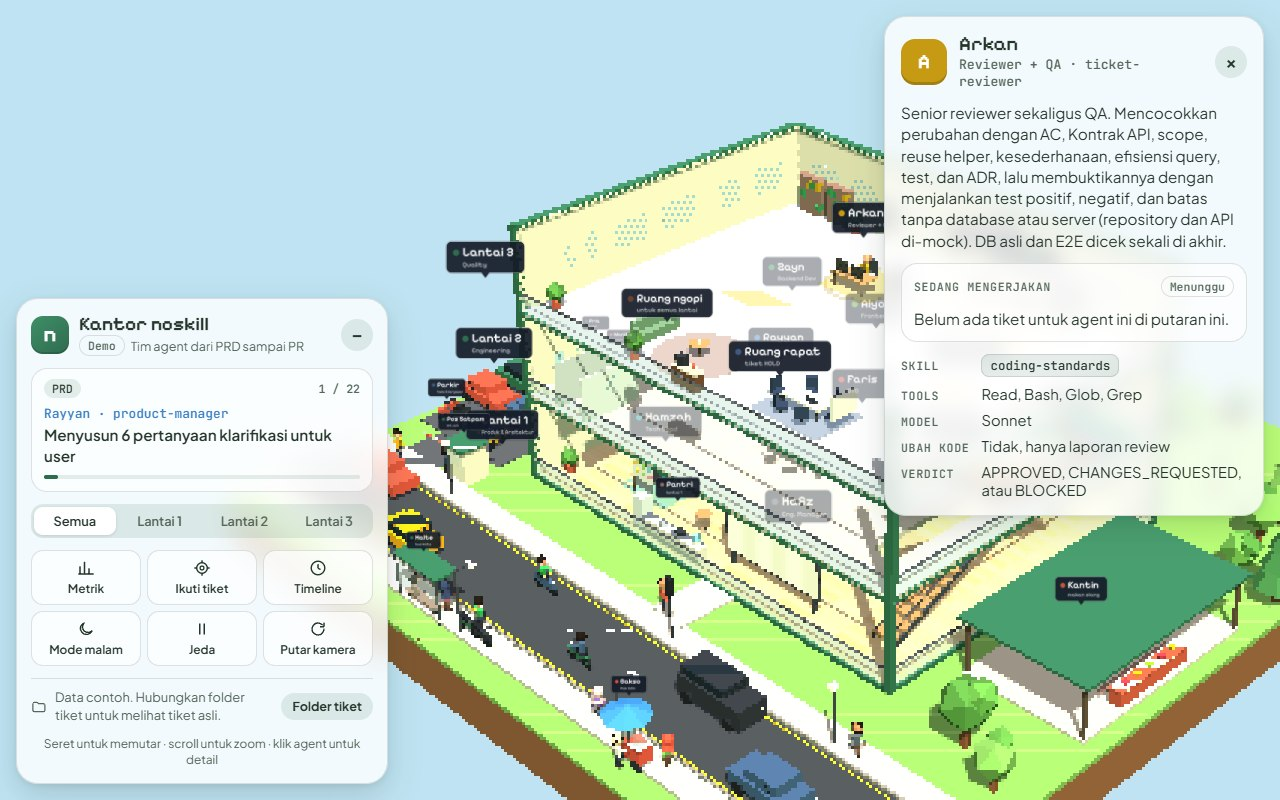
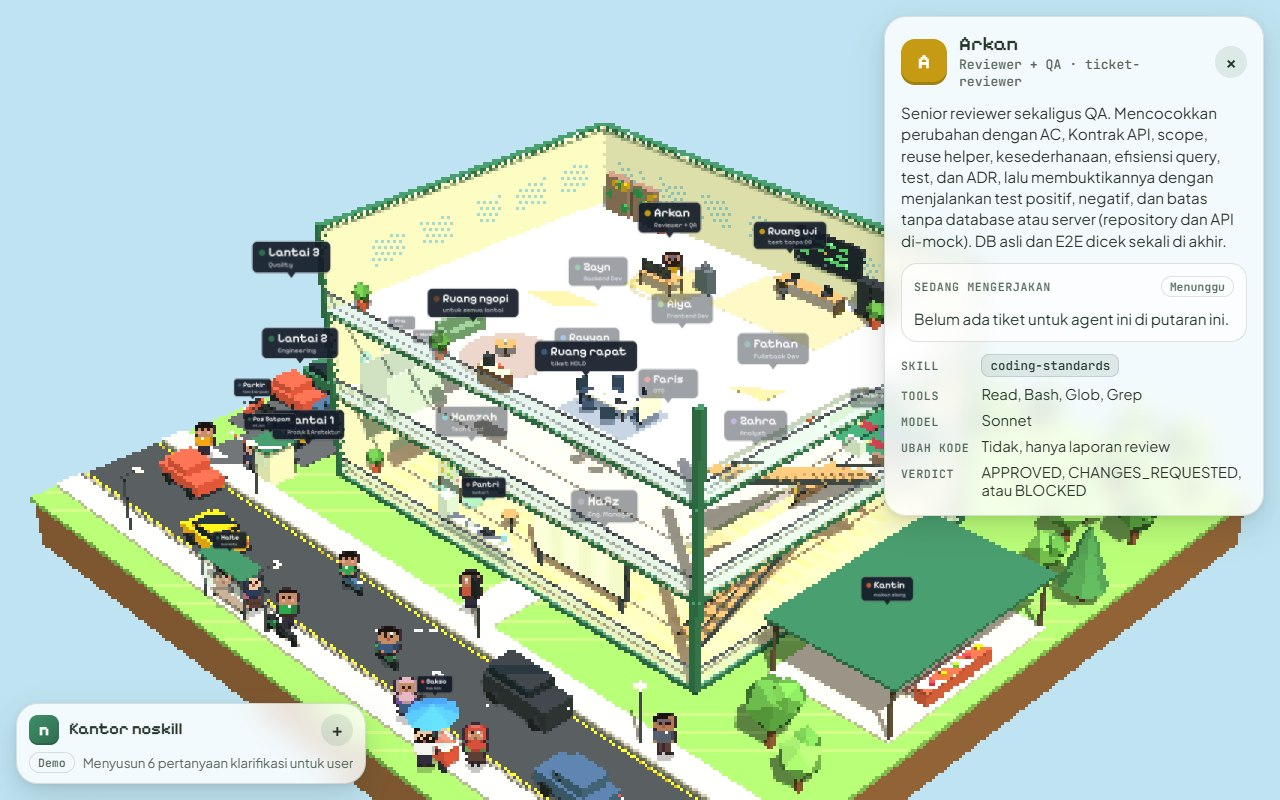
feat(kantor): karakter sprite pixel chibi mengikuti referensi (2.2.0)
- makePerson diganti sprite billboard 20x24 px: kepala besar, mata berkilau, pipi merona, ID card, hijab dengan drape, rok panjang, kacamata, jenggot
- Pose otomatis dari rotasi kaki: berdiri, dua frame jalan, duduk, duduk dengan jari terangkat dan percikan saat agent aktif
- Bayangan di lantai dan tint malam; outline gelap 1px
- Teks CHANGELOG/README/docs dan screenshot diperbarui

diff --git a/skills/kantor/kantor-noskill.html b/skills/kantor/kantor-noskill.html
@@ -601,129 +601,163 @@
   const HAIR = [0x2b1d14, 0x3a2a1e, 0x1a1410, 0x5a3a22];
   const PANTS = [0x2b2d42, 0x3d5a80, 0x5c4033, 0x8d99ae];
 
-  // Smooth (not flat-shaded) materials and shared geometries for people, so a crowd stays cheap
-  const smatCache = {}, geoCache = {};
-  function smat(color, rough, side) {
-    const k = color + ':' + (rough || 0.7) + ':' + (side || 0);
-    if (!smatCache[k]) smatCache[k] = new THREE.MeshStandardMaterial({ color: color, roughness: rough || 0.7, metalness: 0, side: side || THREE.FrontSide });
-    return smatCache[k];
+  // ---------- People: chibi pixel sprites that always face the camera ----------
+  // Each person is a small group holding a billboard sprite. The group keeps the same pivots the animation code
+  // already drives (legL/legR/armL/armR rotations), and updatePeople() turns those values into a pose:
+  // stand, two walking frames, seated at a desk, and seated with a raised finger and sparkles ("idea").
+  const PERSON_MATS = [], personCache = {}, personTint = new THREE.Color(0xffffff);
+  const PX = 0.075;                   // world units per sprite pixel
+  const SIT_Y = 0.43;                 // a seated sprite's bottom sits this far above the person's position
+  const OUTLINE = 0x3a2a36;
+  function css(c) { return '#' + c.toString(16).padStart(6, '0'); }
+  function mixc(c, t, f) {
+    const a = [(c >> 16) & 255, (c >> 8) & 255, c & 255], b = [(t >> 16) & 255, (t >> 8) & 255, t & 255];
+    return (Math.round(a[0] + (b[0] - a[0]) * f) << 16) | (Math.round(a[1] + (b[1] - a[1]) * f) << 8) | Math.round(a[2] + (b[2] - a[2]) * f);
   }
-  function geo(key, make) { return geoCache[key] || (geoCache[key] = make()); }
-  function part(g, geom, material, x, y, z, o) {
-    const m = new THREE.Mesh(geom, material);
-    m.position.set(x, y, z);
-    if (o && o.s) m.scale.set(o.s[0], o.s[1], o.s[2]);
-    if (o && o.r) m.rotation.set(o.r[0], o.r[1], o.r[2]);
-    m.castShadow = !!(o && o.cast);
-    g.add(m);
-    return m;
-  }
-  const SPHERE = function (r) { return geo('s' + r, function () { return new THREE.SphereGeometry(r, 20, 14); }); };
-  // a slice of a sphere: phi runs around the vertical axis (PI/2 is the face, +z), theta down from the crown
-  const SHELL = function (r, p0, pl, t0, tl) { return geo(['h', r, p0, pl, t0, tl].join(), function () { return new THREE.SphereGeometry(r, 24, 16, p0, pl, t0, tl); }); };
-  const TUBE = function (rt, rb, h) { return geo(['c', rt, rb, h].join(), function () { return new THREE.CylinderGeometry(rt, rb, h, 16); }); };
+  // face and head silhouette rows (x0, x1) on a 14-wide head
+  const HEAD_ROWS = [[4, 9], [2, 11], [1, 12], [1, 12], [1, 12], [1, 12], [1, 12], [1, 12], [2, 11], [3, 10]];
 
-  // People with human proportions: rounded torso and limbs, shoes, belt, a face with eyes, irises, brows,
-  // nose, lips and ears, per-person hair styles, beard, glasses, tie, ID card, and a hijab that frames the
-  // face. Pivots stay where the poses expect them: legs at the hip, arms at the shoulder, hand 0.72 below it.
-  const CHIBI = 1.7, CHIBI_LEG = 0.75;
+  function drawPerson(o, pose) {
+    const OX = 2, W = 20, sitting = pose === 'sit' || pose === 'idea', H = sitting ? 18 : 24;
+    const cv = document.createElement('canvas'); cv.width = W; cv.height = H;
+    const x = cv.getContext('2d');
+    function px(cx, cy, w, h, c) { x.fillStyle = css(c); x.fillRect(cx + OX + 1, cy + 1, w, h); }
+    function row(cy, x0, x1, c) { px(x0, cy, x1 - x0 + 1, 1, c); }
+    const skin = o.skin, skinD = mixc(o.skin, 0x6b3b2a, 0.22), hairC = o.hair || 0x2b1d14;
+    const shirt = o.shirt, shirtD = mixc(o.shirt, 0x000000, 0.22), shirtL = mixc(o.shirt, 0xffffff, 0.25);
+    const pants = o.pants || 0x2b2d42, hij = o.hijab || null, hijD = hij ? mixc(hij, 0x000000, 0.2) : 0, hijL = hij ? mixc(hij, 0xffffff, 0.22) : 0;
+
+    // head
+    if (hij) {
+      HEAD_ROWS.forEach(function (r, i) { row(i, r[0], r[1], hij); px(r[0], i, 1, 1, hijD); px(r[1], i, 1, 1, hijD); });
+      row(1, 4, 9, hijL);
+      for (let i = 3; i <= 8; i++) row(i, i === 8 ? 4 : 3, i === 8 ? 9 : 10, skin);
+    } else {
+      HEAD_ROWS.forEach(function (r, i) { row(i, r[0], r[1], i < 2 ? hairC : skin); });
+      row(2, 1, 12, hairC);
+      px(1, 3, 1, 2, hairC); px(12, 3, 1, 2, hairC);                       // sideburns
+      const st = o.style || 'short';
+      if (st === 'side') { px(9, 2, 4, 1, skin); px(10, 2, 2, 1, skin); }  // fringe swept to one side
+      if (st === 'curly') { [3, 5, 7, 9].forEach(function (cx) { px(cx, 0, 1, 1, mixc(hairC, 0xffffff, 0.1)); }); row(0, 4, 9, hairC); px(3, 1, 1, 1, hairC); px(10, 1, 1, 1, hairC); }
+      if (st === 'quiff') { px(4, 0, 7, 1, mixc(hairC, 0xffffff, 0.15)); }
+    }
+    // eyes (big, with a highlight), blush, mouth
+    [4, 8].forEach(function (ex) { px(ex, 4, 2, 2, 0x2b1d14); px(ex, 4, 1, 1, 0xffffff); });
+    if (!o.glasses) { px(3, 6, 2, 1, 0xf2a3a0); px(9, 6, 2, 1, 0xf2a3a0); }
+    px(6, 7, 2, 1, 0xb0554e);
+    if (o.beard) {
+      row(8, 2, 11, hairC); row(9, 3, 10, hairC); px(2, 7, 2, 1, hairC); px(10, 7, 2, 1, hairC); px(5, 7, 4, 1, hairC);
+      px(6, 8, 2, 1, 0xb0554e);
+    }
+    if (o.glasses) {
+      const gc = 0x7a6470;
+      [3, 7].forEach(function (gx) { px(gx, 3, 4, 1, gc); px(gx, 6, 4, 1, gc); px(gx, 3, 1, 4, gc); px(gx + 3, 3, 1, 4, gc); });
+    }
+
+    // body
+    const by = 10, bodyH = sitting ? 5 : 6;
+    px(3, by, 8, bodyH, shirt); px(10, by, 1, bodyH, shirtD);
+    const armTopRaised = pose === 'idea';
+    if (sitting) {
+      px(1, by + 1, 2, 3, shirt); px(11, by + 1, 2, 3, shirtD);                                  // arms bent forward
+      px(3, by + 4, 2, 1, skin); px(9, by + 4, 2, 1, skin);                                     // hands on the desk
+      row(by + 5, 2, 11, hij ? pants : pants);                                                  // lap
+      if (armTopRaised) {
+        px(11, by + 1, 2, 3, shirt);                                                           // arm goes up beside the head
+        px(13, by - 3, 2, 5, shirtD); px(13, by - 5, 2, 2, skin); px(14, by - 7, 1, 2, skin);  // sleeve, fist, raised index finger
+        [[15, by - 8], [16, by - 6], [15, by - 4]].forEach(function (s) { px(s[0], s[1], 2, 1, 0xf7d046); });   // sparkles
+      }
+    } else {
+      px(1, by, 2, 5, shirt); px(11, by, 2, 5, shirtD);
+      px(1, by + 5, 2, 1, skin); px(11, by + 5, 2, 1, skin);
+    }
+    if (hij) {                                                                                 // drape over the shoulders and chest, like a short cape
+      row(by, 1, 12, hij); row(by + 1, 1, 12, hij); row(by + 2, 2, 11, hij); row(by + 3, 3, 10, hijD);
+      if (!sitting) row(by + 4, 4, 9, hijD);
+      px(1, by, 1, 2, hijD); px(12, by, 1, 2, hijD);
+    }
+    if (o.tie) { px(6, by, 2, 4, o.tie); px(9, by + 2, 2, 2, 0xf7f5ef); px(9, by + 2, 2, 1, o.card || 0xc8453a); }
+    else {
+      if (!hij) { px(5, by, 1, 1, 0xf7f5ef); px(8, by, 1, 1, 0xf7f5ef); }
+      if (o.card) {
+        const lc = o.card;
+        px(4, by, 1, 1, lc); px(5, by + 1, 1, 1, lc); px(6, by + 2, 1, 1, lc); px(9, by, 1, 1, lc); px(8, by + 1, 1, 1, lc); px(7, by + 2, 1, 1, lc);
+        px(6, by + 3, 2, 1, lc); px(6, by + 4, 2, 1, 0xf7f5ef);
+      }
+    }
+
+    // legs or skirt (standing and walking only)
+    if (!sitting) {
+      const f = pose === 'walkA' ? 1 : pose === 'walkB' ? 2 : 0;                                  // 1: left foot lifted, 2: right foot lifted
+      const shoe = o.shoes || 0x2a2320;
+      if (hij) {
+        row(16, 3, 10, pants); row(17, 3, 10, pants); row(18, 2, 11, pants); row(19, 2, 11, pants); row(20, 2, 11, pants);
+        px(2, 18, 10, 1, mixc(pants, 0x000000, 0.12));
+        if (f !== 1) px(4, 21, 2, 1, shoe); if (f !== 2) px(8, 21, 2, 1, shoe);
+      } else {
+        row(16, 3, 10, 0x3b2a1e);
+        const lh = f === 1 ? 4 : 5, rh = f === 2 ? 4 : 5;
+        px(4, 17, 2, lh, pants); px(8, 17, 2, rh, pants);
+        px(3, 17 + lh, 3, 1, shoe); px(8, 17 + rh, 3, 1, shoe);
+      }
+    }
+
+    // 1px dark outline around the whole silhouette
+    const id = x.getImageData(0, 0, W, H), d = id.data, out = new Uint8ClampedArray(d.length);
+    const oc = [(OUTLINE >> 16) & 255, (OUTLINE >> 8) & 255, OUTLINE & 255];
+    function solid(ix, iy) { return ix >= 0 && iy >= 0 && ix < W && iy < H && d[(iy * W + ix) * 4 + 3] > 0; }
+    for (let iy = 0; iy < H; iy++) for (let ix = 0; ix < W; ix++) {
+      const k = (iy * W + ix) * 4;
+      if (d[k + 3] > 0) { out[k] = d[k]; out[k + 1] = d[k + 1]; out[k + 2] = d[k + 2]; out[k + 3] = 255; }
+      else if (solid(ix - 1, iy) || solid(ix + 1, iy) || solid(ix, iy - 1) || solid(ix, iy + 1)) { out[k] = oc[0]; out[k + 1] = oc[1]; out[k + 2] = oc[2]; out[k + 3] = 255; }
+    }
+    id.data.set(out); x.putImageData(id, 0, 0);
+    return cv;
+  }
+  function personMat(o, pose) {
+    const key = [o.skin, o.hair, o.shirt, o.pants, o.hijab, o.glasses ? 1 : 0, o.beard ? 1 : 0, o.style, o.tie, o.card, pose].join('|');
+    if (!personCache[key]) {
+      const tex = new THREE.CanvasTexture(drawPerson(o, pose));
+      tex.magFilter = tex.minFilter = THREE.NearestFilter; tex.generateMipmaps = false;
+      const m = new THREE.SpriteMaterial({ map: tex, transparent: true, alphaTest: 0.5, depthWrite: true, fog: false });
+      m.userData.h = (pose === 'sit' || pose === 'idea' ? 18 : 24) * PX;
+      m.color.copy(personTint); PERSON_MATS.push(m); personCache[key] = m;
+    }
+    return personCache[key];
+  }
+  const PEOPLE = [];
+  const shadowGeo = new THREE.CircleGeometry(0.42, 14), shadowMat = new THREE.MeshBasicMaterial({ color: 0x000000, transparent: true, opacity: 0.22, depthWrite: false });
   function makePerson(o) {
     const g = new THREE.Group();
-    const hip = 0.95, hy = hip + 1.1;
-    const skin = smat(o.skin, 0.55), shirt = smat(o.shirt, 0.75), pants = smat(o.pants, 0.8);
-    const hairM = smat(o.hair || 0x2b1d14, 0.85), dark = smat(0x1a1410, 0.4), white = smat(0xfbfaf6, 0.35);
-    function limb(px, py) { const p = new THREE.Group(); p.position.set(px, py, 0); g.add(p); return p; }
-
-    // legs: tapered trousers and rounded shoes
-    const legL = limb(0.12, hip), legR = limb(-0.12, hip);
-    [legL, legR].forEach(function (leg) {
-      part(leg, TUBE(0.11, 0.08, 0.84), pants, 0, -0.42, 0, { cast: true });
-      part(leg, SPHERE(0.1), smat(o.shoes || 0x2a2320, 0.45), 0, -0.86, 0.06, { s: [0.95, 0.55, 1.7] });
-    });
-    // pelvis, belt, torso with rounded chest and shoulders
-    part(g, TUBE(0.2, 0.21, 0.22), pants, 0, hip + 0.02, 0, { s: [1, 1, 0.7], cast: true });
-    part(g, TUBE(0.205, 0.205, 0.05), smat(0x3b2a1e, 0.5), 0, hip + 0.12, 0, { s: [1, 1, 0.72] });
-    part(g, TUBE(0.25, 0.2, 0.6), shirt, 0, hip + 0.43, 0, { s: [1, 1, 0.64], cast: true });
-    part(g, SPHERE(0.25), shirt, 0, hip + 0.72, 0, { s: [1.12, 0.36, 0.66] });
-    if (!o.hijab) {
-      [1, -1].forEach(function (sd) { part(g, geo('collar', function () { return new THREE.BoxGeometry(0.11, 0.05, 0.02); }), smat(o.collar || 0xf7f5ef, 0.6), sd * 0.055, hip + 0.79, 0.135, { r: [0.25, 0, sd * 0.55] }); });
-      if (o.tie) {
-        part(g, geo('tie', function () { return new THREE.BoxGeometry(0.07, 0.4, 0.015); }), smat(o.tie, 0.5), 0, hip + 0.56, 0.152, { r: [-0.08, 0, 0] });
-        part(g, SPHERE(0.035), smat(o.tie, 0.5), 0, hip + 0.76, 0.15, { s: [1, 0.8, 0.6] });
-      } else part(g, geo('placket', function () { return new THREE.BoxGeometry(0.03, 0.42, 0.01); }), smat(0xf7f5ef, 0.6), 0, hip + 0.55, 0.151);
-    }
-    if (o.card) {
-      part(g, geo('card', function () { return new THREE.BoxGeometry(0.12, 0.16, 0.012); }), smat(0xf7f5ef, 0.4), 0.13, hip + 0.47, 0.158);
-      part(g, geo('cardband', function () { return new THREE.BoxGeometry(0.12, 0.035, 0.013); }), smat(o.card, 0.5), 0.13, hip + 0.53, 0.159);
-    }
-    // arms: sleeve, cuff, hand
-    const armL = limb(0.3, hip + 0.7), armR = limb(-0.3, hip + 0.7);
-    [armL, armR].forEach(function (arm) {
-      part(arm, SPHERE(0.074), shirt, -Math.sign(arm.position.x) * 0.01, -0.015, 0, { s: [1.05, 0.9, 1] });   // shoulder, moves with the arm
-      arm.rotation.z = Math.sign(arm.position.x) * 0.05;                                 // arms hang slightly away from the body
-      part(arm, TUBE(0.074, 0.06, 0.34), shirt, 0, -0.17, 0, { cast: true });          // upper arm
-      part(arm, TUBE(0.06, 0.05, 0.3), shirt, 0, -0.47, 0.01, { cast: true });          // forearm
-      part(arm, TUBE(0.054, 0.054, 0.04), smat(o.cuff || o.shirt, 0.7), 0, -0.62, 0.01);
-      part(arm, SPHERE(0.052), skin, 0, -0.69, 0.015, { s: [0.75, 1.3, 0.55] });
-    });
-    // neck and head
-    part(g, TUBE(0.07, 0.08, 0.18), skin, 0, hip + 0.84, 0);
-    part(g, SPHERE(0.19), skin, 0, hy + 0.01, -0.005, { s: [0.9, 1.08, 0.98], cast: true });
-    part(g, SPHERE(0.13), skin, 0, hy - 0.09, 0.045, { s: [0.95, 0.85, 0.95] });        // jaw and chin
-    [0.172, -0.172].forEach(function (ex) { part(g, SPHERE(0.042), skin, ex, hy - 0.01, -0.01, { s: [0.45, 1, 0.8] }); });
-    // face: eyes with irises, brows, nose, lips
-    [0.068, -0.068].forEach(function (ex) {
-      part(g, SPHERE(0.032), white, ex * 0.95, hy + 0.02, 0.156, { s: [1.0, 1.1, 0.45] });        // big chibi eyes
-      part(g, SPHERE(0.028), smat(0x2b1d14, 0.3), ex * 0.95, hy + 0.012, 0.165, { s: [0.95, 1.15, 0.5] });
-      part(g, SPHERE(0.008), white, ex * 0.95 + 0.009, hy + 0.028, 0.18);                         // eye highlight
-      part(g, SPHERE(0.03), smat(0xf2a3a0, 0.6), ex * 1.45, hy - 0.045, 0.14, { s: [1.1, 0.6, 0.35] });   // blush
-      part(g, geo('brow', function () { return new THREE.BoxGeometry(0.062, 0.013, 0.018); }), o.hijab ? smat(0x2b1d14, 0.85) : hairM, ex * 0.92, hy + 0.068, 0.162, { r: [0, 0, ex > 0 ? -0.1 : 0.1] });
-    });
-    part(g, SPHERE(0.026), skin, 0, hy - 0.022, 0.18, { s: [0.7, 1.35, 1.15] });
-    part(g, geo('lips', function () { return new THREE.TorusGeometry(0.028, 0.0075, 6, 12, Math.PI * 0.7); }), smat(0xa8645a, 0.5), 0, hy - 0.083, 0.165, { r: [0.1, 0, Math.PI * 1.15] });
-    if (o.glasses) {
-      const fr = smat(0x22262c, 0.3);
-      [0.068, -0.068].forEach(function (ex) {
-        part(g, geo('lens', function () { return new THREE.TorusGeometry(0.036, 0.0055, 6, 18); }), fr, ex * 0.92, hy + 0.025, 0.178);
-        part(g, geo('temple', function () { return new THREE.BoxGeometry(0.006, 0.006, 0.18); }), fr, ex > 0 ? 0.162 : -0.162, hy + 0.035, 0.09);
-      });
-      part(g, geo('bridge', function () { return new THREE.BoxGeometry(0.04, 0.006, 0.006); }), fr, 0, hy + 0.035, 0.18);
-    }
-    if (o.hijab) {
-      // a wrap with an opening for the face, a band over the forehead, and a drape over neck and shoulders
-      const hj = smat(o.hijab, 0.85, THREE.DoubleSide), W = 1.9;
-      part(g, SHELL(0.215, Math.PI / 2 + W / 2, Math.PI * 2 - W, 0, Math.PI * 0.8), hj, 0, hy + 0.01, -0.01, { s: [0.97, 1.12, 1.02], cast: true });
-      part(g, SHELL(0.215, Math.PI / 2 - W / 2, W, 0, Math.PI * 0.27), hj, 0, hy + 0.01, -0.01, { s: [0.97, 1.12, 1.02] });
-      part(g, TUBE(0.15, 0.27, 0.3), hj, 0, hip + 0.83, 0.01, { s: [1, 1, 0.72], cast: true }).userData.head = true;
-    } else {
-      const style = o.style || 'short';
-      part(g, SHELL(0.2, 0, Math.PI * 2, 0, Math.PI * 0.4), hairM, 0, hy + 0.01, -0.005, { s: [1.0, 1.15, 1.04], cast: true });
-      part(g, SHELL(0.2, Math.PI, Math.PI, Math.PI * 0.3, Math.PI * 0.32), hairM, 0, hy, -0.008, { s: [1.0, 1.12, 1.04] });
-      if (style === 'side') part(g, SPHERE(0.09), hairM, 0.06, hy + 0.17, 0.11, { s: [1.5, 0.45, 0.9], r: [0, 0, -0.25] });
-      if (style === 'quiff') part(g, SPHERE(0.09), hairM, 0, hy + 0.16, 0.11, { s: [1.55, 0.6, 0.95] });
-      if (style === 'curly') for (let i = 0; i < 8; i++) {
-        const a = i / 8 * Math.PI * 2;
-        part(g, SPHERE(0.06), hairM, Math.cos(a) * 0.13, hy + 0.19, Math.sin(a) * 0.12 - 0.01);
-      }
-      if (o.beard) {
-        part(g, SHELL(0.14, 0.05, Math.PI - 0.1, Math.PI * 0.42, Math.PI * 0.58), hairM, 0, hy - 0.09, 0.045, { s: [1.0, 0.9, 1.0] });
-        part(g, SHELL(0.196, 0.05, Math.PI - 0.1, Math.PI * 0.55, Math.PI * 0.2), hairM, 0, hy + 0.01, -0.005, { s: [0.92, 1.1, 1.0] });
-        part(g, geo('stache', function () { return new THREE.BoxGeometry(0.075, 0.016, 0.02); }), hairM, 0, hy - 0.058, 0.17);
-      }
-    }
-    // chibi: everything above the neck (and the hijab drape) moves into one group that grows from the neck,
-    // so the head and face read at pixel-art size, like the agents in a pixel office
-    const head = new THREE.Group(); head.position.set(0, hip + 0.9, 0); g.add(head);
-    g.children.slice().forEach(function (c) { if (c.isMesh && (c.position.y > hip + 0.95 || c.userData.head)) head.attach(c); });
-    head.scale.setScalar(CHIBI);
-    // chibi legs: shorter, with the whole body lowered so the shoes still touch the floor
-    const drop = 0.915 * (1 - CHIBI_LEG);
-    legL.scale.y = legR.scale.y = CHIBI_LEG;
-    g.children.forEach(function (c) { c.position.y -= drop; });
-    g.scale.setScalar(o.scale || 0.72);
-    g.userData = { legL: legL, legR: legR, armL: armL, armR: armR, female: !!o.hijab };
+    function limb(px, py, pz) { const p = new THREE.Group(); p.position.set(px, py, pz || 0); g.add(p); return p; }
+    const legL = limb(0.1, 0.5), legR = limb(-0.1, 0.5), armL = limb(0.25, 1.1, 0.15), armR = limb(0, 1.1, 0.2);
+    const base = { skin: o.skin, hair: o.hair, shirt: o.shirt, pants: o.pants, hijab: o.hijab, glasses: o.glasses, beard: o.beard, style: o.style, tie: o.tie, card: o.card, shoes: o.shoes };
+    const sp = new THREE.Sprite(personMat(base, 'stand'));
+    sp.center.set(0.5, 0);
+    const k = (o.scale || 0.72) / 0.72;
+    sp.scale.set(20 * PX * k, 24 * PX * k, 1);
+    g.add(sp);
+    const sh = new THREE.Mesh(shadowGeo, shadowMat); sh.rotation.x = -Math.PI / 2; sh.position.y = 0.03; sh.scale.setScalar(k); g.add(sh);
+    g.userData = { legL: legL, legR: legR, armL: armL, armR: armR, female: !!o.hijab, sprite: sp, look: base, pose: 'stand', k: k, phase: PEOPLE.length * 0.7 };
     (o.parent || scene).add(g);
+    PEOPLE.push(g);
     return g;
+  }
+  // pick the pose from the limb values the animation code sets, and show the matching sprite
+  function updatePeople(t) {
+    for (let i = 0; i < PEOPLE.length; i++) {
+      const g = PEOPLE[i], u = g.userData, lr = u.legL.rotation.x;
+      let pose = 'stand', bob = 0;
+      if (lr < -1.2) pose = u.working && Math.floor(t * 0.9 + u.phase) % 3 === 0 ? 'idea' : 'sit';
+      else if (Math.abs(lr) > 0.12) { pose = lr > 0 ? 'walkA' : 'walkB'; bob = Math.abs(lr) * 0.07; }
+      if (pose !== u.pose) {
+        u.pose = pose;
+        const m = personMat(u.look, pose), sit = pose === 'sit' || pose === 'idea';
+        u.sprite.material = m; u.sprite.scale.set(20 * PX * u.k, m.userData.h * u.k, 1);
+        u.sprite.userData.sit = sit;
+      }
+      u.sprite.position.y = (u.sprite.userData.sit ? SIT_Y : 0) + bob;
+    }
   }
 
 
@@ -2847,6 +2881,7 @@
   // ---------- Day / night ----------
   let nightTarget = 0, night = 0;
   const SUN_DAY = new THREE.Color(0xfff1d6), SUN_NIGHT = new THREE.Color(0x9fb6ff);
+  const PERSON_NIGHT = new THREE.Color(0x4a5f9a);
   const HEMI_DAY = new THREE.Color(0xffffff), HEMI_NIGHT = new THREE.Color(0x6f86c7);
   function applyNight(n) {
     scene.background.copy(DAY_BG).lerp(NIGHT_BG, n);
@@ -2860,6 +2895,7 @@
     boardMat.emissiveIntensity = 0.12 + n * 0.45;
     lampLights.forEach(function (l) { l.intensity = n * 1.3; });
     deskLampMat.emissiveIntensity = n * 1.6;
+    personTint.setHex(0xffffff).lerp(PERSON_NIGHT, n * 0.55); PERSON_MATS.forEach(function (m) { m.color.copy(personTint); });
     deskLights.forEach(function (l) { l.intensity = n * 1.3; });
     starMat.opacity = n;
     clouds.forEach(function (c) { c.g.visible = n < 0.95; });
@@ -3006,6 +3042,7 @@
       const glowTo = isAct ? 0.9 : k === selected ? 0.45 : 0;
       s.glow.opacity += (glowTo - s.glow.opacity) * Math.min(1, dt * 6);
       if (s.screen) s.screen.emissiveIntensity += ((on ? 1.1 : 0.15) - s.screen.emissiveIntensity) * Math.min(1, dt * 5);
+      u.working = !!on;
       if (!walkers[k] && !hang[k]) {
         if (s.standing) {
           u.armR.rotation.x = on ? -1.6 + Math.sin(t * 5) * 0.4 : -0.1;
@@ -3018,6 +3055,7 @@
       }
       if (s.label) s.label.position.y = s.labelY + (isAct ? Math.sin(t * 4) * 0.08 + 0.15 : 0);
     });
+    updatePeople(t);
 
     // follow: keep the walking courier in view, on its own storey
     if (followOn) {

diff --git a/docs/skills.html b/docs/skills.html
@@ -161,7 +161,7 @@ html { scroll-behavior: smooth; }
         <figure><img src="img/kantor-malam.jpg" alt="Kantor saat malam dengan lampu meja dan lampu jalan menyala" width="1280" height="800" loading="lazy"><figcaption>Mode malam: lampu meja dan lampu jalan menyala.</figcaption></figure>
       </div>
       </div>
-      <dl><dt>Cara pakai</dt><dd><code>/noskill:kantor</code>. Di Cowork/claude.ai halaman diterbitkan sebagai artifact milikmu (atau artifact lama diperbarui). Di Claude Code terminal halaman disalin ke folder docs dan berjalan dalam mode demo.</dd><dt>Lantai</dt><dd><ul><li>Lantai 1, Produk &amp; Arsitektur: Product Manager, CTO, Analyst, Tech Lead, Eng. Manager dengan board tiket.</li><li>Lantai 2, Engineering: Backend, Frontend, Fullstack Dev.</li><li>Lantai 3, Quality: Reviewer (sekaligus QA) di samping <em>Ruang uji</em> (papan CI dan rak server yang lampunya hijau/merah mengikuti verdict), plus rak buku.</li><li><em>Ruang ngopi</em> bersama di Lantai 3: agent dari semua lantai yang tidak punya pekerjaan sekitar 20 detik naik ke sana untuk ngopi, lalu kembali ke mejanya begitu ada tiket atau tahap untuknya.</li><li>Fasilitas lain: <em>Pantri</em> di Lantai 1, <em>Toilet</em> dan <em>Musholla</em> di Lantai 2, dan <em>Kantin</em> di halaman. Agent yang menganggur bergantian ke sana atau mampir ngobrol ke meja rekan; saat waktu salat ke musholla, saat makan siang ke kantin.</li><li>Agent saling menyapa dan mengobrol lewat gelembung bicara, dan penerima tiket membalas kurir yang mengantarnya.</li><li>Di luar kantor ada jalan raya dengan mobil dan motor yang berhenti di zebra cross saat ada orang menyeberang, parkiran dengan pos satpam, halte, pangkalan ojek, dan gerobak bakso.</li></ul></dd><dt>Yang bisa dilakukan</dt><dd><ul><li>Tampilan pixel-art isometrik: dunia 3D dirender blocky, papan nama gelap dengan titik warna agent tetap tajam, dan label agent di lantai yang tertutup dibuat samar.</li><li>Karakter chibi (kepala besar, mata besar, pipi merona) dengan ciri masing-masing: hijab, jenggot, kacamata, gaya rambut; lantai 1 berparket, lantai 2–3 berubin.</li><li>Panel: langkah yang sedang berjalan dengan progres, pemilih lantai, dan toolbar (Metrik, Ikuti tiket, Timeline, Mode malam, Jeda, Putar kamera).</li><li>Klik agent: kartu dengan avatar, deskripsi, skill, tools, model, verdict, dan tiket yang sedang dipegang.</li><li>Klik tiket di board: AC, Riwayat, pemegang, dan <em>Putar ulang perjalanan</em>.</li><li><em>Metrik</em>: durasi rata-rata per tahap dan per agent dari baris Riwayat, ronde revisi terbanyak, daftar HOLD.</li><li>Filter per proyek/fitur, tombol lantai, <em>Ikuti tiket</em> (kamera mengikuti agent yang berjalan), panel yang bisa dikecilkan.</li><li>Orang lain yang membuka kantor tampil di panel dan di lobi Lantai 1.</li><li>Tiket HOLD bisa dijawab langsung di detail tiket; <code>/noskill:tiket lanjut</code> mengambil jawabannya. Selama HOLD, Eng. Manager dan agent pemegang tiket menunggu di <em>Ruang rapat</em> Lantai 3.</li><li>Setiap agent punya nama: Rayyan (PM), Faris (CTO), Zahra (Analyst), Hamzah (Tech Lead), Zayn (Backend), Alya (Frontend), Fathan (Fullstack), Arkan (Reviewer + QA), Hafiz (Eng. Manager).</li><li>Gelembung bicara menampilkan verdict yang dibawa agent, <em>Metrik</em> menampilkan token per agent dan per tiket, dan <em>Timeline</em> menampilkan perpindahan status hari ini.</li><li>Agent yang sedang mengerjakan PRD, ADR, atau BRD ikut menyala, dibaca dari <code>activity.json</code> yang ditulis <code>feature-flow</code>.</li></ul></dd><dt>Data live</dt><dd><ol><li>Tambahkan MCP <code>filesystem</code> di config Claude desktop, berisi folder induk proyek.</li><li>Buka artifact di aplikasi Claude desktop → <em>Folder tiket</em> → tempel path <code>docs/noskill</code> (atau folder <code>tickets</code>), satu per baris → <em>Pakai data live</em>.</li><li>Board disimpan ke database artifact, jadi di browser dan HP tampil sebagai <em>Snapshot</em>.</li></ol></dd><dt>Batasan</dt><dd>Membaca folder lokal hanya bisa di aplikasi Claude desktop dan pada artifact milikmu sendiri. Tanpa data live, halaman memutar contoh alur tiket.</dd></dl>
+      <dl><dt>Cara pakai</dt><dd><code>/noskill:kantor</code>. Di Cowork/claude.ai halaman diterbitkan sebagai artifact milikmu (atau artifact lama diperbarui). Di Claude Code terminal halaman disalin ke folder docs dan berjalan dalam mode demo.</dd><dt>Lantai</dt><dd><ul><li>Lantai 1, Produk &amp; Arsitektur: Product Manager, CTO, Analyst, Tech Lead, Eng. Manager dengan board tiket.</li><li>Lantai 2, Engineering: Backend, Frontend, Fullstack Dev.</li><li>Lantai 3, Quality: Reviewer (sekaligus QA) di samping <em>Ruang uji</em> (papan CI dan rak server yang lampunya hijau/merah mengikuti verdict), plus rak buku.</li><li><em>Ruang ngopi</em> bersama di Lantai 3: agent dari semua lantai yang tidak punya pekerjaan sekitar 20 detik naik ke sana untuk ngopi, lalu kembali ke mejanya begitu ada tiket atau tahap untuknya.</li><li>Fasilitas lain: <em>Pantri</em> di Lantai 1, <em>Toilet</em> dan <em>Musholla</em> di Lantai 2, dan <em>Kantin</em> di halaman. Agent yang menganggur bergantian ke sana atau mampir ngobrol ke meja rekan; saat waktu salat ke musholla, saat makan siang ke kantin.</li><li>Agent saling menyapa dan mengobrol lewat gelembung bicara, dan penerima tiket membalas kurir yang mengantarnya.</li><li>Di luar kantor ada jalan raya dengan mobil dan motor yang berhenti di zebra cross saat ada orang menyeberang, parkiran dengan pos satpam, halte, pangkalan ojek, dan gerobak bakso.</li></ul></dd><dt>Yang bisa dilakukan</dt><dd><ul><li>Tampilan pixel-art isometrik: dunia 3D dirender blocky, papan nama gelap dengan titik warna agent tetap tajam, dan label agent di lantai yang tertutup dibuat samar.</li><li>Karakter sprite pixel chibi (kepala besar, mata besar, pipi merona, ID card) dengan ciri masing-masing: hijab, jenggot, kacamata, gaya rambut. Pose otomatis: berdiri, jalan, duduk, dan duduk dengan jari terangkat saat agent aktif. Lantai 1 berparket, lantai 2–3 berubin.</li><li>Panel: langkah yang sedang berjalan dengan progres, pemilih lantai, dan toolbar (Metrik, Ikuti tiket, Timeline, Mode malam, Jeda, Putar kamera).</li><li>Klik agent: kartu dengan avatar, deskripsi, skill, tools, model, verdict, dan tiket yang sedang dipegang.</li><li>Klik tiket di board: AC, Riwayat, pemegang, dan <em>Putar ulang perjalanan</em>.</li><li><em>Metrik</em>: durasi rata-rata per tahap dan per agent dari baris Riwayat, ronde revisi terbanyak, daftar HOLD.</li><li>Filter per proyek/fitur, tombol lantai, <em>Ikuti tiket</em> (kamera mengikuti agent yang berjalan), panel yang bisa dikecilkan.</li><li>Orang lain yang membuka kantor tampil di panel dan di lobi Lantai 1.</li><li>Tiket HOLD bisa dijawab langsung di detail tiket; <code>/noskill:tiket lanjut</code> mengambil jawabannya. Selama HOLD, Eng. Manager dan agent pemegang tiket menunggu di <em>Ruang rapat</em> Lantai 3.</li><li>Setiap agent punya nama: Rayyan (PM), Faris (CTO), Zahra (Analyst), Hamzah (Tech Lead), Zayn (Backend), Alya (Frontend), Fathan (Fullstack), Arkan (Reviewer + QA), Hafiz (Eng. Manager).</li><li>Gelembung bicara menampilkan verdict yang dibawa agent, <em>Metrik</em> menampilkan token per agent dan per tiket, dan <em>Timeline</em> menampilkan perpindahan status hari ini.</li><li>Agent yang sedang mengerjakan PRD, ADR, atau BRD ikut menyala, dibaca dari <code>activity.json</code> yang ditulis <code>feature-flow</code>.</li></ul></dd><dt>Data live</dt><dd><ol><li>Tambahkan MCP <code>filesystem</code> di config Claude desktop, berisi folder induk proyek.</li><li>Buka artifact di aplikasi Claude desktop → <em>Folder tiket</em> → tempel path <code>docs/noskill</code> (atau folder <code>tickets</code>), satu per baris → <em>Pakai data live</em>.</li><li>Board disimpan ke database artifact, jadi di browser dan HP tampil sebagai <em>Snapshot</em>.</li></ol></dd><dt>Batasan</dt><dd>Membaca folder lokal hanya bisa di aplikasi Claude desktop dan pada artifact milikmu sendiri. Tanpa data live, halaman memutar contoh alur tiket.</dd></dl>
     </section>
     <section class="skill" id="project-profile">
       <h3><code>project-profile</code><span class="tag">sekali per project</span></h3>

diff --git a/docs/index.html b/docs/index.html
@@ -247,7 +247,7 @@ claude --plugin-dir ./noskill</pre><button type="button" data-copy>Salin</button
       </table></div>
 
       <h2 id="kantor">Kantor noskill</h2>
-      <p><code>/noskill:kantor</code> membuka kantor 3D tempat agent noskill bekerja. Board tiket dibaca live dari <code>docs/noskill</code>, agent chibi bergaya pixel-art berjalan mengantar tiket ke agent berikutnya, Arkan (Reviewer + QA) bekerja di samping Ruang uji, dan agent yang menganggur ngopi, makan di kantin, atau mampir ngobrol. Detailnya ada di <a href="skills.html#kantor">halaman skill</a>.</p>
+      <p><code>/noskill:kantor</code> membuka kantor 3D tempat agent noskill bekerja. Board tiket dibaca live dari <code>docs/noskill</code>, agent sprite pixel chibi berjalan mengantar tiket ke agent berikutnya, Arkan (Reviewer + QA) bekerja di samping Ruang uji, dan agent yang menganggur ngopi, makan di kantin, atau mampir ngobrol. Detailnya ada di <a href="skills.html#kantor">halaman skill</a>.</p>
       <div class="shots">
         <figure><img src="img/kantor-overview.jpg" alt="Kantor noskill: kantor tiga lantai dengan panel baru, ruang uji, ruang ngopi, ruang rapat, kantin, jalan raya, dan parkiran" width="1280" height="800" loading="lazy"><figcaption>Kantor tiga lantai dengan panel baru, Ruang uji, fasilitas kantor, jalan raya, dan parkiran.</figcaption></figure>
         <div class="row">

diff --git a/CHANGELOG.md b/CHANGELOG.md
@@ -7,7 +7,7 @@ Format: versi terbaru di atas. Versi di `.claude-plugin/plugin.json` dinaikkan s
 ### Diubah — Kantor bergaya pixel-art
 - **Render pixel-art isometrik.** Dunia 3D dirender di resolusi rendah (1/3) lalu diperbesar tanpa penghalusan, dengan kamera FOV sempit dari jauh sehingga terlihat hampir isometrik. Tetap bisa diputar dan di-zoom.
 - **Label tetap tajam.** Papan nama dan gelembung bicara dirender terpisah di resolusi penuh di atas dunia pixel; label agent yang tertutup lantai di atasnya dibuat samar.
-- **Karakter chibi.** Kepala 1,7× lebih besar, kaki lebih pendek, mata besar dengan kilau, pipi merona; hijab, jenggot, kacamata, dan rambut tetap khas per agent.
+- **Karakter sprite pixel chibi.** Semua orang kini sprite 2D bergaya pixel (kepala besar, mata besar berkilau, pipi merona, ID card, hijab dengan drape, rok panjang) yang selalu menghadap kamera di dunia 3D, dengan bayangan di lantai. Pose otomatis: berdiri, dua frame jalan, duduk, dan duduk dengan jari terangkat dan percikan saat agent aktif. Warna ikut gelap di mode malam.
 - **Papan nama gaya pixel office:** pill gelap, titik warna agent, font Pixelify Sans. Judul panel ikut memakai font pixel.
 - Branding tetap noskill; tidak memakai simbol atau karakter dari IP pihak lain.
 

diff --git a/README.md b/README.md
@@ -17,7 +17,7 @@ Koleksi Claude Skills & Agent untuk kerja development sehari-hari — dipaketkan
 
 ## Kantor noskill
 
-`/noskill:kantor` membuka kantor 3D tempat agent noskill bekerja: tiga lantai, board tiket live dari `docs/noskill`, agent chibi bergaya pixel-art yang berjalan mengantar tiket, Ruang uji tempat Arkan (Reviewer + QA) memverifikasi tiket, dan suasana kantor di sekitarnya. Panelnya menampilkan langkah yang sedang berjalan, pemilih lantai, dan toolbar (metrik, ikuti tiket, timeline, mode malam).
+`/noskill:kantor` membuka kantor 3D tempat agent noskill bekerja: tiga lantai, board tiket live dari `docs/noskill`, agent sprite pixel chibi yang berjalan mengantar tiket, Ruang uji tempat Arkan (Reviewer + QA) memverifikasi tiket, dan suasana kantor di sekitarnya. Panelnya menampilkan langkah yang sedang berjalan, pemilih lantai, dan toolbar (metrik, ikuti tiket, timeline, mode malam).
 
 ![Kantor noskill: kantor tiga lantai dengan panel baru, ruang uji, ruang ngopi, ruang rapat, kantin, jalan raya, dan parkiran](docs/img/kantor-overview.jpg)
 
